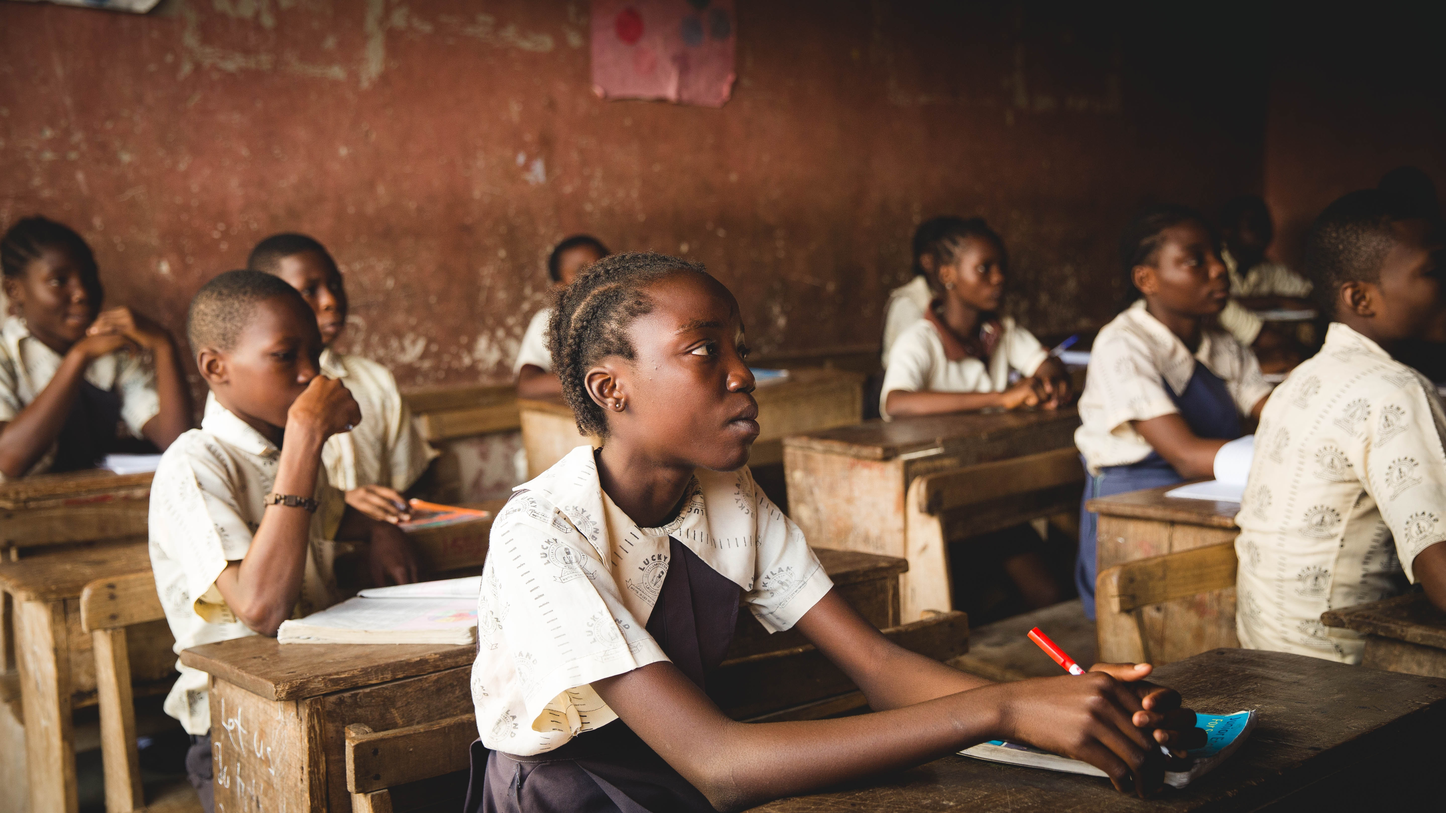
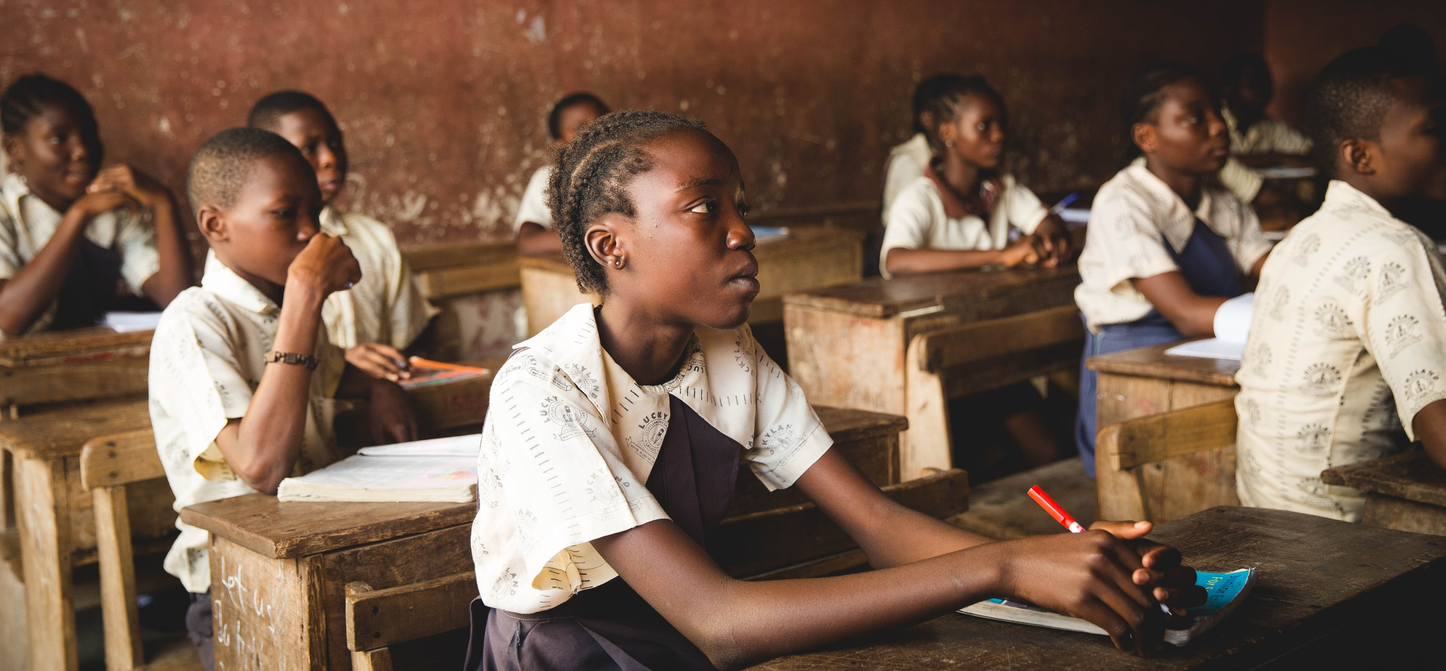
working on about us page. made bio section with our team info

diff --git a/about-us.html b/about-us.html
@@ -1,0 +1,77 @@
+<!DOCTYPE html>
+<html lang="en">
+<head>
+    <meta charset="UTF-8">
+    <meta name="viewport" content="width=device-width, initial-scale=1.0">
+    <meta http-equiv="X-UA-Compatible" content="ie=edge">
+    <link href="https://fonts.googleapis.com/css?family=Work+Sans" rel="stylesheet">
+    <link rel="stylesheet" href="index.css">
+    <title>Educell</title>
+    <link rel="icon" type="image/png" href="./images/EducellFavicon.png">
+</head>
+<body>
+    <div class="container">
+        <header>
+            <div class="header">
+                <h1>Educell</h1>
+                <div class="right-side-nav">
+                    <a href="#">Login</a>
+                    <img class="menu-button" src="./images/menu.png"/>
+                </div>
+            </div>
+            <div class="menu">
+                <a href="#">Home</a><br>
+                <a href="#">Services</a><br>
+                <a href="#">About us</a>
+            </div>
+        </header>
+
+        <section class="aboutUs-mainContent">
+            <div class="aboutUsPic">
+                <img class="aboutUs-img" src="./images/aboutUscodesnippet2.jpg" alt="empty classroom with desks">
+            </div>
+
+            <h1>Meet the Team</h1>
+            <div class="teamBios">
+
+                <div class="bio">
+                    <img class="bioImg" src="./images/Destiny.jpg" alt="">
+                    <p>Destiny Tibbitts</p>
+                    <p>Lead Front End Engineer</p>
+                    <a href="">GH: Dtibbs5149</a>
+                </div>
+
+                <div class="bio">
+                        <img class="bioImg" src="./images/Meera.jpg" alt="">
+                        <p>Meera Anderson</p>
+                        <p>Lead UX Designer</p>
+                        <a href="">GH: meeraanderson</a>
+                </div>
+
+                <div class="bio">
+                        <img class="bioImg" src="./images/LeonelProfile.jpg" alt="">
+                        <p>Leonel Flores</p>
+                        <p>Lead Front End UI Designer</p>
+                        <a href="">GH: lflores12</a>
+                </div>
+
+            </div>
+        </section>
+
+        <footer>
+                <div class="footer-content">
+                    <h2>Contact</h2>
+                    <div class="footer-text">
+                        <h4>Phone: (888)555-555</h4>
+                        <h4>Email: Educell@educell.com</h4>
+                        <h4>Address: 123 Lane New York, NY</h4>
+                    </div>
+                </div>
+        
+                <div class="bottom-footer">
+                    <h4>Copyright 2019</h4>
+                </div>
+        
+            </footer>
+    </div> <!--Main Container-->
+</body>

diff --git a/index.css b/index.css
@@ -286,4 +286,40 @@ footer {
     padding-top: 20px;
 }
 
+.aboutUs-img {
+    height: 300px;
+    width: 100%;
+    margin-bottom: 40px;
+}
+
+.bioImg {
+    height: 150px;
+    width: auto;
+    border-radius: 50%;
+    margin-bottom: 10px;
+}
+
+.aboutUs-mainContent {
+    text-align: center;
+    font-size: 5rem;
+    margin-bottom: 20px;
+}
+
+.aboutUs-mainContent h1 {
+    margin-bottom: 40px;
+    color: #1E4F5C;
+}
+
+.teamBios {
+    display: flex;
+    flex-direction: row;
+    flex-wrap: wrap;
+    width: 100%;
+    justify-content: space-around;
+}
+
+.bio {
+    font-size: 1.8rem;
+    margin-right: 30px;
+}
 

diff --git a/index.html b/index.html
@@ -22,7 +22,7 @@
             <div class="menu">
                 <a href="#">Home</a><br>
                 <a href="#">Services</a><br>
-                <a href="#">About us</a>
+                <a href="about-us.html">About us</a>
             </div>
         </header>
 
